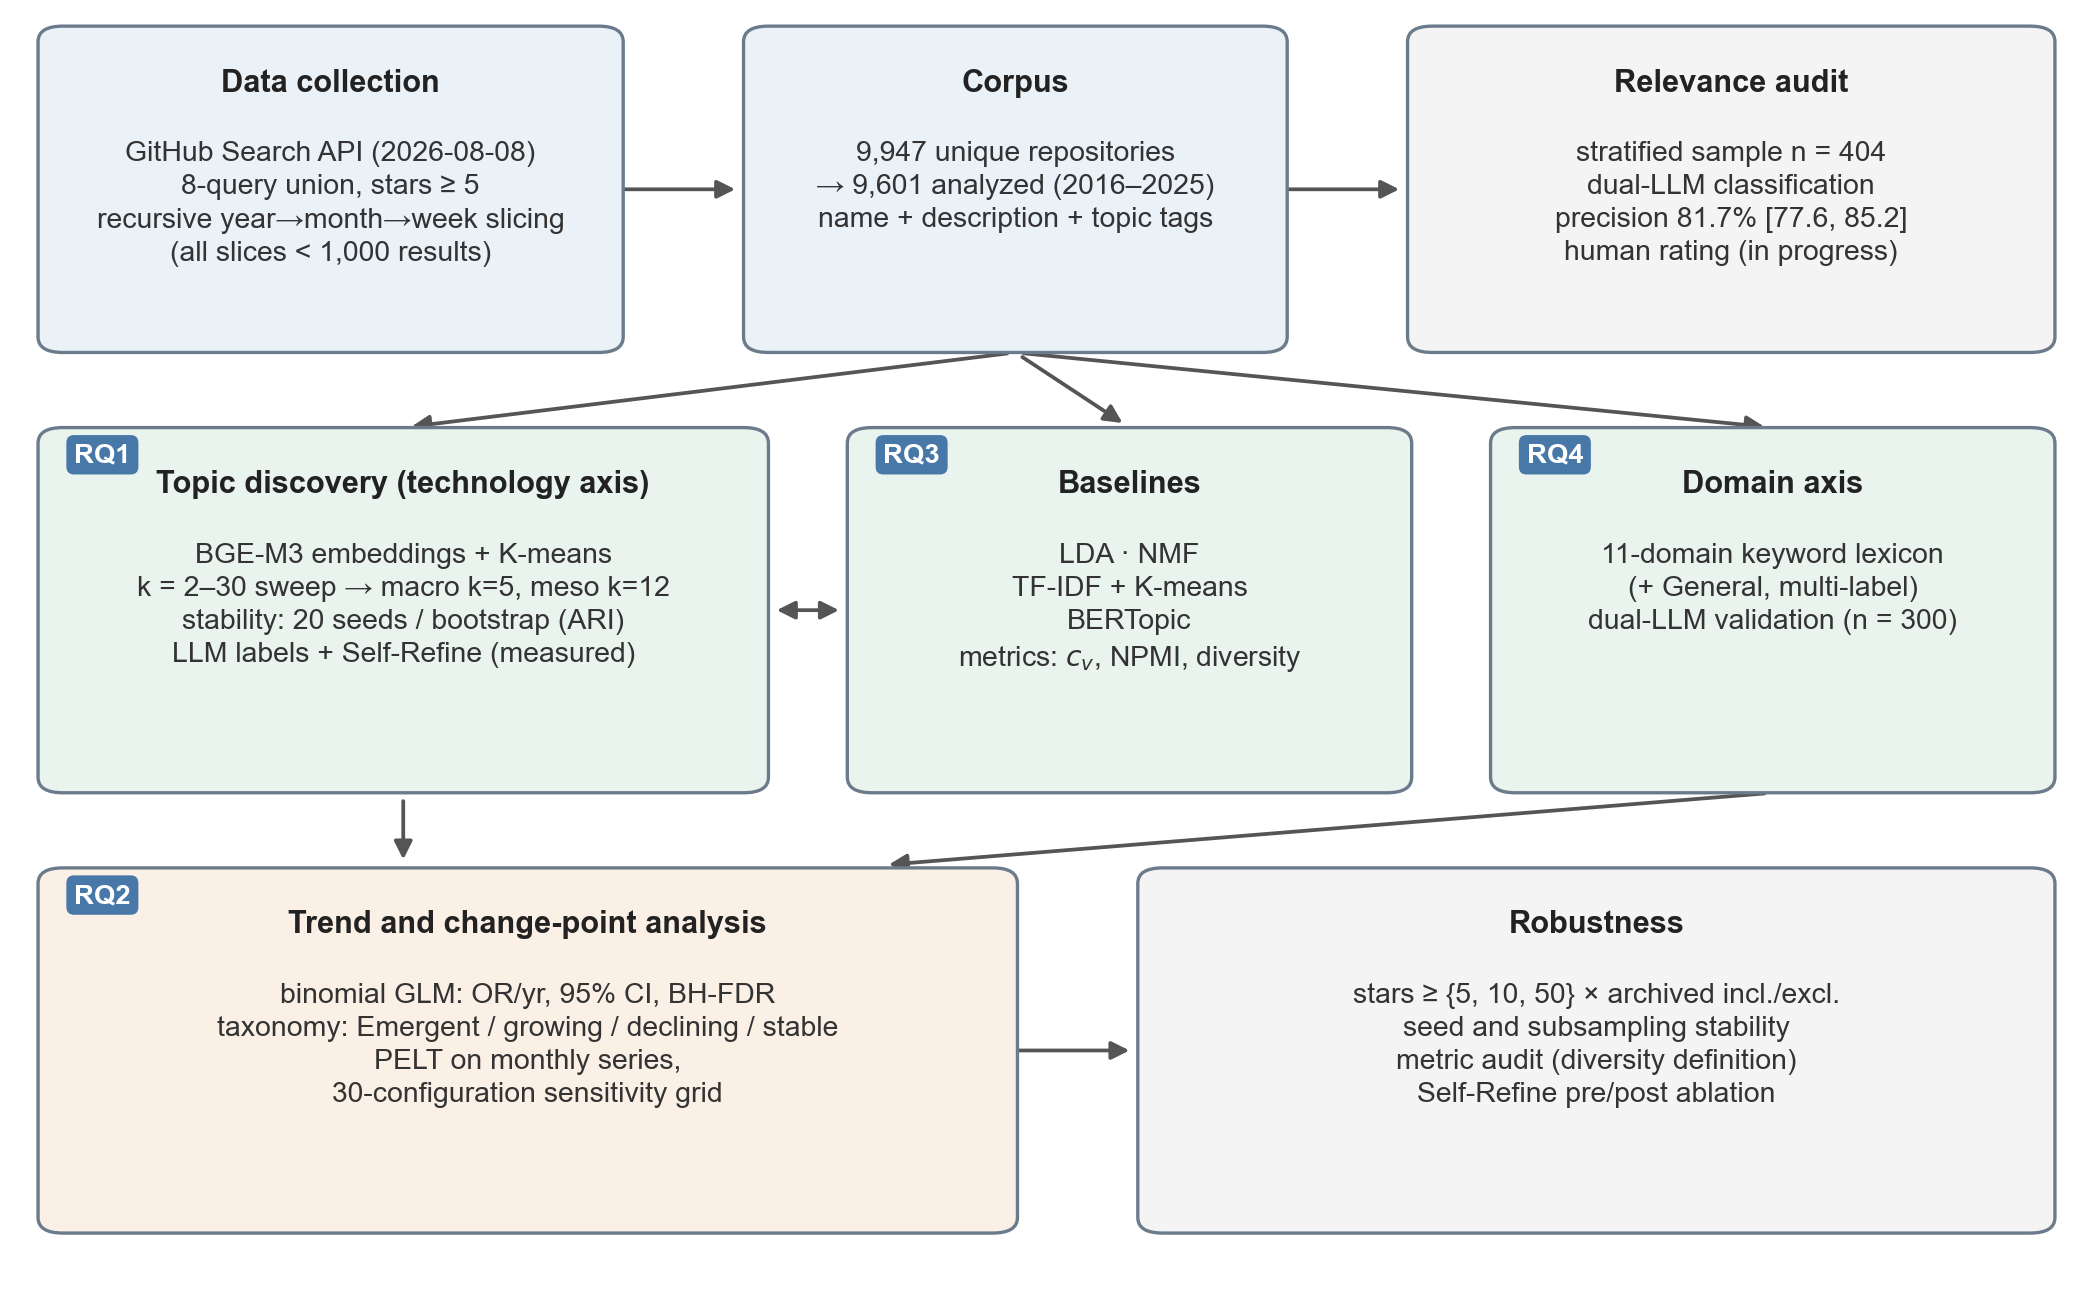
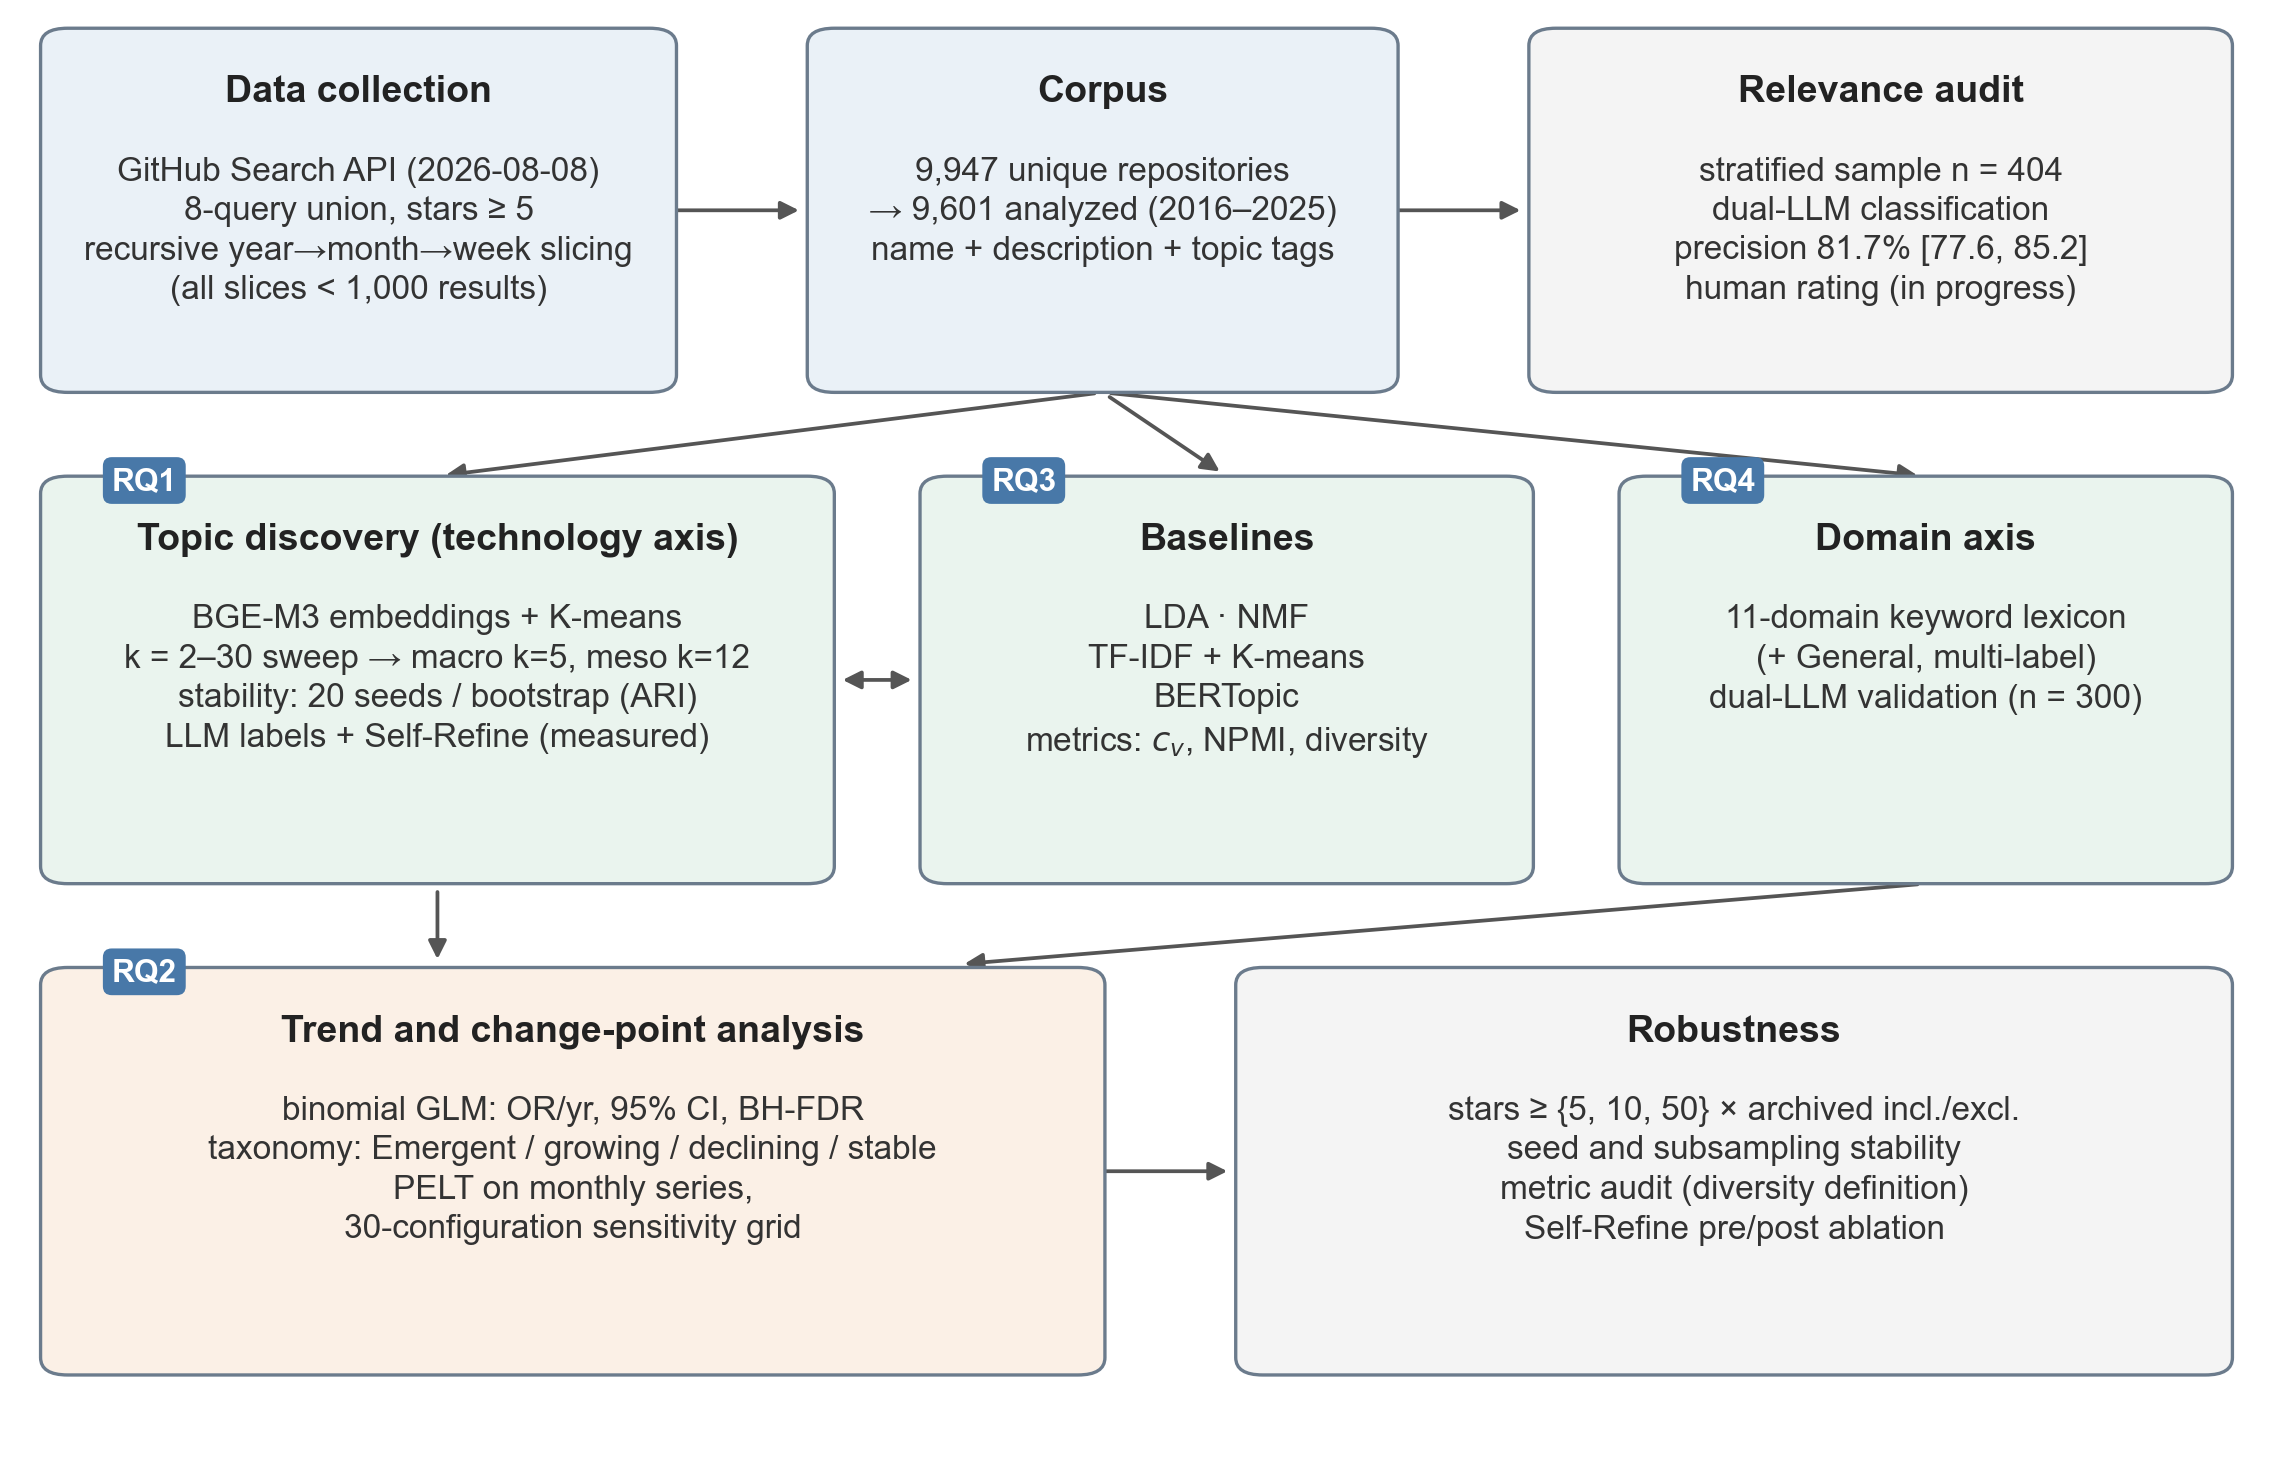
Enlarge fonts in study-design overview figure

diff --git a/scripts/visuals_jss.py b/scripts/visuals_jss.py
@@ -284,12 +284,12 @@ def fig6():
 # ═══ Figure 0: 연구 설계 개요도 (Method 서두) ═══
 def fig0():
     from matplotlib.patches import FancyBboxPatch, FancyArrowPatch
-    fig, ax = plt.subplots(figsize=(7.0, 4.4), layout='constrained')
+    fig, ax = plt.subplots(figsize=(7.6, 4.9), layout='constrained')
     ax.set_xlim(0, 100); ax.set_ylim(0, 100); ax.axis('off')
     C_DATA, C_TOPIC, C_TREND, C_VAL = '#EAF1F7', '#EAF4EE', '#FBF0E6', '#F4F4F4'
     EDGE = '#6B7B8C'
 
-    def box(x, y, w, h, title, lines, fc, fs=6.8, tfs=7.4):
+    def box(x, y, w, h, title, lines, fc, fs=8.0, tfs=9.0):
         ax.add_patch(FancyBboxPatch((x, y), w, h, boxstyle='round,pad=0.6,rounding_size=1.2',
                                     fc=fc, ec=EDGE, lw=0.8, zorder=2))
         ax.text(x + w/2, y + h - 2.6, title, ha='center', va='top', fontsize=tfs,
@@ -302,7 +302,7 @@ def fig0():
                                      mutation_scale=9, lw=0.9, color='#555555', zorder=1))
 
     def rq(x, y, label):
-        ax.text(x, y, label, ha='center', va='center', fontsize=6.6, fontweight='bold',
+        ax.text(x, y, label, ha='center', va='center', fontsize=7.6, fontweight='bold',
                 color='#FFFFFF', zorder=4,
                 bbox=dict(boxstyle='round,pad=0.28', fc='#4878A8', ec='none'))
 
@@ -345,7 +345,7 @@ def fig0():
     arrow(48, 19.5, 54.4, 19.5)  # trend -> robustness
 
     # RQ 태그
-    rq(4.5, 65.5, 'RQ1'); rq(43.5, 65.5, 'RQ3'); rq(74.5, 65.5, 'RQ4'); rq(4.5, 31.5, 'RQ2')
+    rq(6, 67.3, 'RQ1'); rq(45, 67.3, 'RQ3'); rq(76, 67.3, 'RQ4'); rq(6, 33.3, 'RQ2')
     save(fig, 'fig0_study_design.png')
 
 if __name__ == '__main__':
